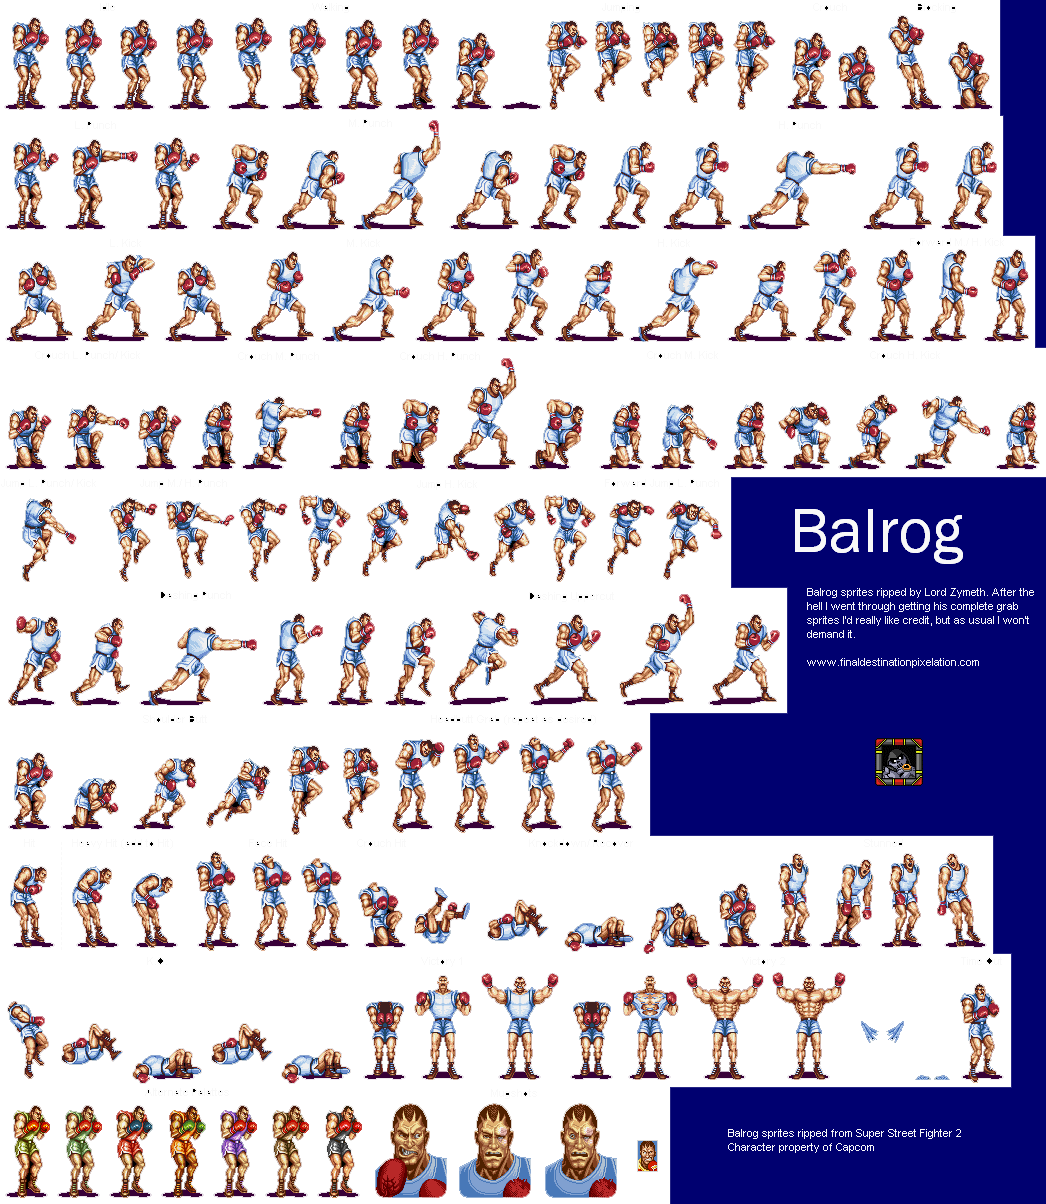
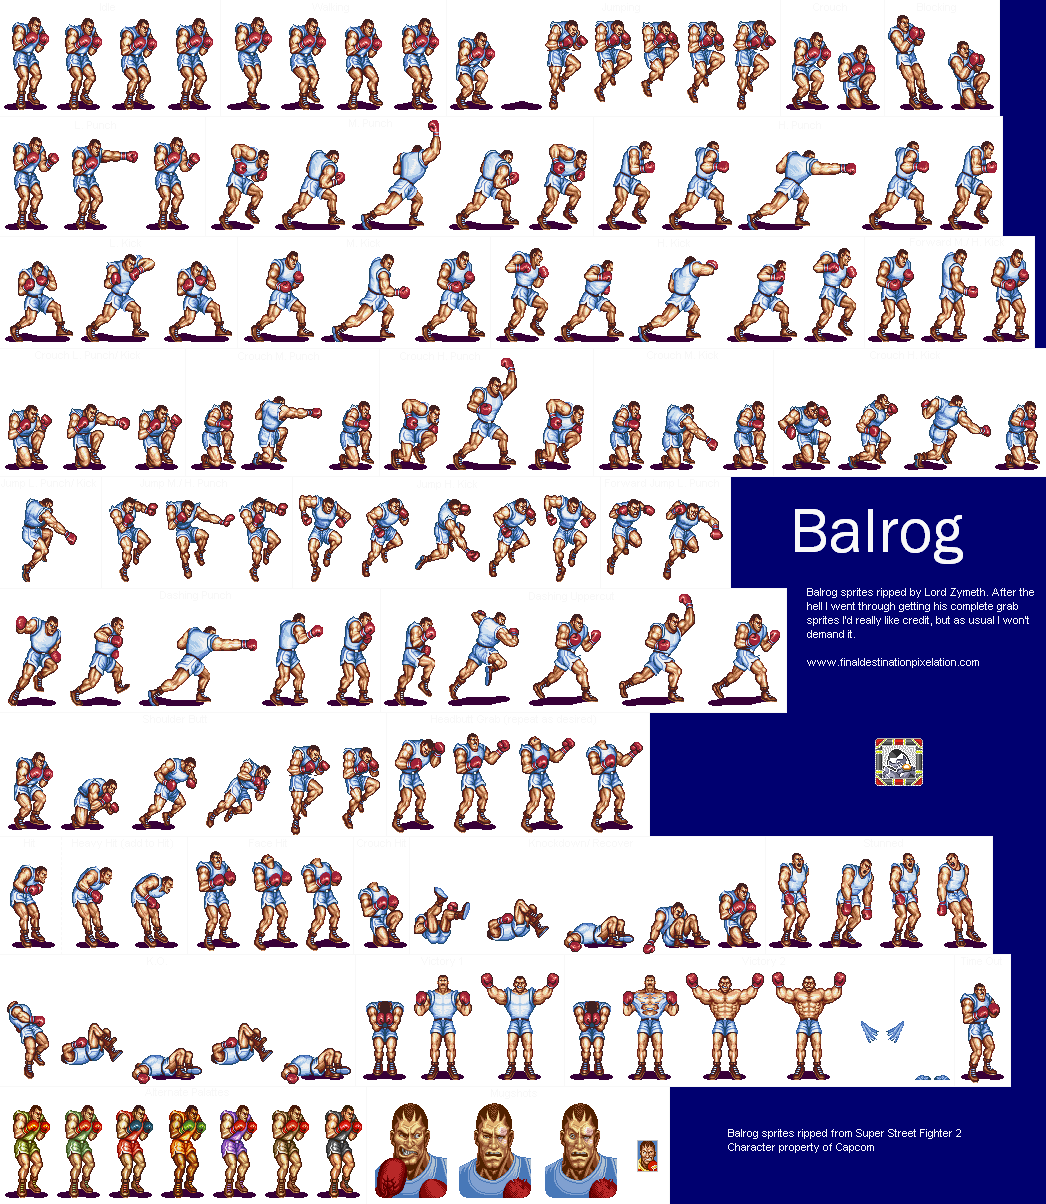
Updated Balrog img and Updated Jump animation

diff --git a/pi.Model/Animation.cs b/pi.Model/Animation.cs
@@ -142,8 +142,8 @@ namespace UltimateFight
 
                 case 0:
                     this._sprite.TextureRect = new IntRect(594, 17, 38, this._sprite.TextureRect.Height);
-                    _i = 0;
-                    _spriteNb = 0;
+                    _i = -1;
+                    _spriteNb = -1;
                     _c = 1;
                     break;
                 case 100:
